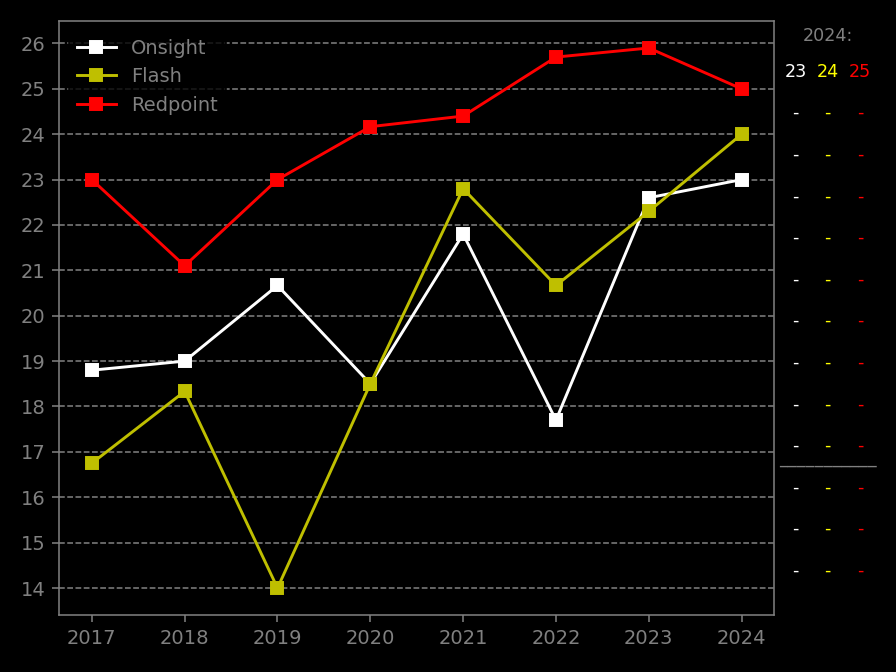
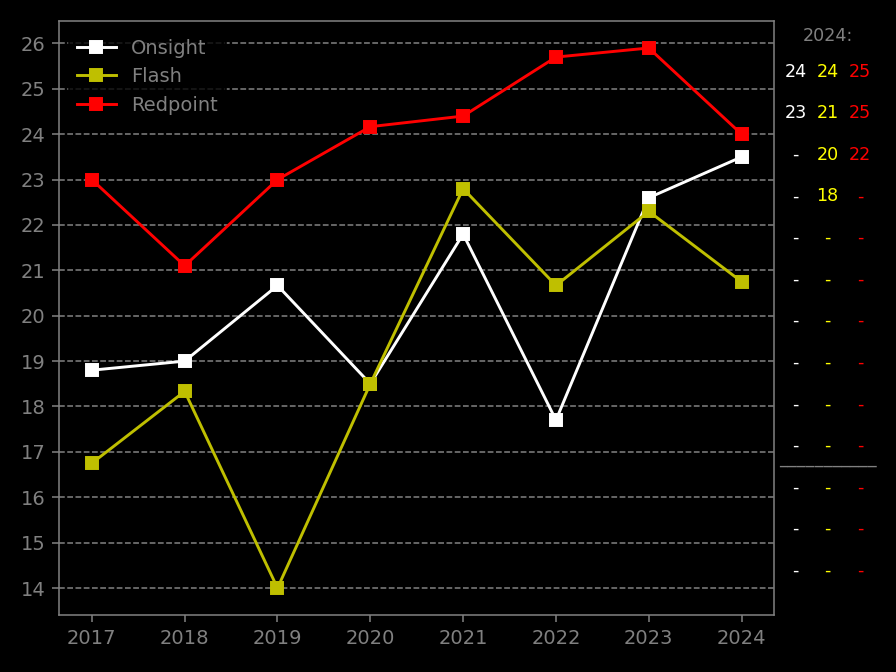
logging

diff --git a/log.html b/log.html
@@ -22,8 +22,14 @@
 <h2>Log of sends</h2>
 <table class="sortable">
 <tr><th style="width:5%">date</th><th>crag</th><th>route</th><th style="width:5%">grade</th><th>type</th><th>comment</th></tr>
-<tr><td>08.01.24</td><td>Firewood Creek</td><td>Pyromaniac</td><td>24 -</td><td style='color: yellow; font-weight: bold;'>f</td><td>No hands knee-bar helped before crux. very chossy. 2nd ascent.</td></tr>
+<tr><td>13.01.24</td><td>Pencil Dick</td><td>Drop In, Drop Out</td><td>18 -</td><td style='color: yellow; font-weight: bold;'>f</td><td></td></tr>
+<tr><td>13.01.24</td><td>Pencil Dick</td><td>My Little One</td><td>24 -</td><td style='color: white; font-weight: bold;'>o</td><td>Was very happy with this one, felt kind of easy for the grade, but fun.</td></tr>
+<tr><td>13.01.24</td><td>Pencil Dick</td><td>Botox Viagra</td><td>21 -</td><td style='color: yellow; font-weight: bold;'>f</td><td>Super nice long route.</td></tr>
+<tr><td>13.01.24</td><td>Pencil Dick</td><td>Stick It In</td><td>20 -</td><td style='color: yellow; font-weight: bold;'>f</td><td>Kind of hard little crux up near the top. God jamming training.</td></tr>
+<tr><td>13.01.24</td><td>Pencil Dick</td><td>Grazon Against Wooly Wullens</td><td>25 -</td><td style='color: red; font-weight: bold;'>r</td><td>Two goes, easy but a hard crux with bad feet.</td></tr>
+<tr><td>13.01.24</td><td>Pencil Dick</td><td>Take No Prisoners</td><td>22 -</td><td style='color: red; font-weight: bold;'>r</td><td>Two goes, thought it was very hard, then did it easily on second go.</td></tr>
 <tr><td>08.01.24</td><td>Firewood Creek</td><td>Spontaneous combustion</td><td>23 -</td><td style='color: white; font-weight: bold;'>o</td><td>really nice semi trustworthy face climbing</td></tr>
+<tr><td>08.01.24</td><td>Firewood Creek</td><td>Pyromaniac</td><td>24 -</td><td style='color: yellow; font-weight: bold;'>f</td><td>No hands knee-bar helped before crux. very chossy. 2nd ascent.</td></tr>
 <tr><td>07.01.24</td><td>White Wall</td><td>Route</td><td>25 -</td><td style='color: red; font-weight: bold;'>r</td><td>Didn't like the route at all. Had a weird hand jam. Hrad for grade also maybe?</td></tr>
 <tr><td>31.12.23</td><td>The Office</td><td>The 3-Hour Woman</td><td>26 -</td><td style='color: red; font-weight: bold;'>r</td><td>Maybe 7/8 goes over three days. Very hard on skin. Eventually went more 'direct' at the traverse.</td></tr>
 <tr><td>30.12.23</td><td>White Wall</td><td>Peking Man</td><td>27 -</td><td style='color: red; font-weight: bold;'>r</td><td>4 goes, climbed poorly through a lot of pump.</td></tr>
@@ -34,9 +40,9 @@
 <tr><td>12.12.23</td><td>Mt Iron</td><td>Mezzanine</td><td>25 -</td><td style='color: red; font-weight: bold;'>r</td><td>Worked it out quite well. Send not super desperate.</td></tr>
 <tr><td>05.12.23</td><td>Bannockburn</td><td>Just in Thyme</td><td>24 -</td><td style='color: red; font-weight: bold;'>r</td><td>Start left, use the arete (intended). Kind of easy, but scary with the rock quality.</td></tr>
 <tr><td>03.12.23</td><td>White Wall</td><td>Duck man</td><td>23 -</td><td style='color: red; font-weight: bold;'>r</td><td>2nd go. Nice climbing, hard final clip.</td></tr>
-<tr><td>01.12.23</td><td>Boat Ramp</td><td>Fancy Pants Salmon</td><td>20 -</td><td style='color: red; font-weight: bold;'>r</td><td>Was a bit worried and confused on first go. Did second.</td></tr>
 <tr><td>01.12.23</td><td>Boat Ramp</td><td>Unnamed</td><td>11 -</td><td style='color: white; font-weight: bold;'>o</td><td>Seemed like a 16 or so for the first 2m.</td></tr>
 <tr><td>01.12.23</td><td>Boat Ramp</td><td>The Rat</td><td>21 -</td><td style='color: white; font-weight: bold;'>o</td><td>Lovely climbing, had to clear away some moss at top though.</td></tr>
+<tr><td>01.12.23</td><td>Boat Ramp</td><td>Fancy Pants Salmon</td><td>20 -</td><td style='color: red; font-weight: bold;'>r</td><td>Was a bit worried and confused on first go. Did second.</td></tr>
 <tr><td>06.11.23</td><td>Wye Creek</td><td>Eat Yourself Fitter</td><td>25 -</td><td style='color: red; font-weight: bold;'>r</td><td>3 goes. You can get tired on this, but not in the fingers.</td></tr>
 <tr><td>01.11.23</td><td>Bannockburn</td><td>JAM</td><td>21 -</td><td style='color: red; font-weight: bold;'>r</td><td>Messed around the crux bit on first go, and broke a foothold.</td></tr>
 <tr><td>28.10.23</td><td>Mt Iron</td><td>Bush Lawyer</td><td>22 -</td><td style='color: yellow; font-weight: bold;'>f</td><td></td></tr>
@@ -46,26 +52,26 @@
 <tr><td>08.10.23</td><td>Mt Iron</td><td>Pitchin and Moaning</td><td>19 -</td><td style='color: white; font-weight: bold;'>o</td><td></td></tr>
 <tr><td>08.10.23</td><td>Mt Iron</td><td>Solid Energy</td><td>24 -</td><td style='color: red; font-weight: bold;'>r</td><td>Two goes. Hard last three or four moves, rather easy to that point.</td></tr>
 <tr><td>07.10.23</td><td>Sunnyside</td><td>All that remains</td><td>24 -</td><td style='color: red; font-weight: bold;'>r</td><td>Two goes today, but tried it twice a few years back.</td></tr>
-<tr><td>07.10.23</td><td>Sunnyside</td><td>Shark Chirac</td><td>22 -</td><td style='color: red; font-weight: bold;'>r</td><td>Stuffed up the first bolt. Got second go, but was quite hard (I think).</td></tr>
-<tr><td>07.10.23</td><td>Sunnyside</td><td>Sisters of Mercy</td><td>22 -</td><td style='color: yellow; font-weight: bold;'>f</td><td></td></tr>
 <tr><td>07.10.23</td><td>Sunnyside</td><td>Where's the goddamned drill</td><td>18 -</td><td style='color: white; font-weight: bold;'>o</td><td></td></tr>
+<tr><td>07.10.23</td><td>Sunnyside</td><td>Sisters of Mercy</td><td>22 -</td><td style='color: yellow; font-weight: bold;'>f</td><td></td></tr>
+<tr><td>07.10.23</td><td>Sunnyside</td><td>Shark Chirac</td><td>22 -</td><td style='color: red; font-weight: bold;'>r</td><td>Stuffed up the first bolt. Got second go, but was quite hard (I think).</td></tr>
 <tr><td>01.10.23</td><td>Long Beach</td><td>Never Enough Left variant</td><td>23 -</td><td style='color: red; font-weight: bold;'>r</td><td>Climbed the route, but used the arete.</td></tr>
-<tr><td>26.09.23</td><td>Long Beach</td><td>Pheonix Rising</td><td>18 -</td><td style='color: yellow; font-weight: bold;'>f</td><td></td></tr>
 <tr><td>26.09.23</td><td>Long Beach</td><td>Fly My Pretties</td><td>20 -</td><td style='color: white; font-weight: bold;'>o</td><td>Horribly sandy start</td></tr>
-<tr><td>26.09.23</td><td>Long Beach</td><td>Rosella</td><td>19 -</td><td style='color: white; font-weight: bold;'>o</td><td>Pretty decent route</td></tr>
+<tr><td>26.09.23</td><td>Long Beach</td><td>Pheonix Rising</td><td>18 -</td><td style='color: yellow; font-weight: bold;'>f</td><td></td></tr>
 <tr><td>26.09.23</td><td>Long Beach</td><td>Great Ape</td><td>18 -</td><td style='color: white; font-weight: bold;'>o</td><td>Better version of Seacliff</td></tr>
 <tr><td>26.09.23</td><td>Long Beach</td><td>Seacliff</td><td>17 -</td><td style='color: white; font-weight: bold;'>o</td><td></td></tr>
 <tr><td>26.09.23</td><td>Long Beach</td><td>Layer Cake</td><td>19 -</td><td style='color: white; font-weight: bold;'>o</td><td>OK route.</td></tr>
 <tr><td>26.09.23</td><td>Long Beach</td><td>Pecking Order</td><td>17 -</td><td style='color: white; font-weight: bold;'>o</td><td>Avian Wall day out with Alexandra. Scary rock quality.</td></tr>
+<tr><td>26.09.23</td><td>Long Beach</td><td>Rosella</td><td>19 -</td><td style='color: white; font-weight: bold;'>o</td><td>Pretty decent route</td></tr>
 <tr><td>25.09.23</td><td>Long Beach</td><td>Maybe</td><td>20 -</td><td style='color: red; font-weight: bold;'>r</td><td>Pinnacle. Two goes... slipped with cold hands and feet. But an interesting short route. Well worth the climb.</td></tr>
 <tr><td>16.09.23</td><td>Long Beach</td><td>Unknown to left</td><td>23 -</td><td style='color: yellow; font-weight: bold;'>f</td><td>Bolt city. Short nice route behind LoL.</td></tr>
 <tr><td>21.05.23</td><td>High Side</td><td>Daydreams & Fantasies</td><td>23 -</td><td style='color: white; font-weight: bold;'>o</td><td>Superb climbing that seemed to reward good climbing.</td></tr>
 <tr><td>21.05.23</td><td>High Side</td><td>Emoticon</td><td>23 -</td><td style='color: white; font-weight: bold;'>o</td><td>Soft, just one or two hard moves in the obviously harder spot.</td></tr>
-<tr><td>13.05.23</td><td>Long Beach</td><td>Cut in Black</td><td>20 -</td><td style='color: white; font-weight: bold;'>o</td><td>Avian wall.</td></tr>
 <tr><td>13.05.23</td><td>Long Beach</td><td>Givealittle</td><td>26 -</td><td style='color: red; font-weight: bold;'>r</td><td>Avian wall. 2 goes, soft, not that nice a route, but still some interesting moves. Knee bar near top.</td></tr>
 <tr><td>13.05.23</td><td>Long Beach</td><td>Humanure</td><td>23 -</td><td style='color: red; font-weight: bold;'>r</td><td>Avian wall. 2 goes, Kind of a hard 1 move crux for a 23.</td></tr>
 <tr><td>13.05.23</td><td>Long Beach</td><td>Aretic Vulture</td><td>21 -</td><td style='color: yellow; font-weight: bold;'>f</td><td>Avian wall. One of the nicer climbs here.</td></tr>
 <tr><td>13.05.23</td><td>Long Beach</td><td>Givin</td><td>17 -</td><td style='color: white; font-weight: bold;'>o</td><td>Avian wall. Stupidly early.</td></tr>
+<tr><td>13.05.23</td><td>Long Beach</td><td>Cut in Black</td><td>20 -</td><td style='color: white; font-weight: bold;'>o</td><td>Avian wall.</td></tr>
 <tr><td>07.05.23</td><td>Long Beach</td><td>Jeremys Route</td><td>26 -</td><td style='color: red; font-weight: bold;'>r</td><td>Bolt city. 3 goes. Got "palm up" beta at second crux which helped. This is 27 in some books, and there is a 24 variant.</td></tr>
 <tr><td>07.05.23</td><td>Long Beach</td><td>Labours of Love</td><td>24 -</td><td style='color: red; font-weight: bold;'>r</td><td>Bolt city. 4 goes over 4 years.</td></tr>
 <tr><td>07.05.23</td><td>Long Beach</td><td>Crime and Punishment</td><td>22 -</td><td style='color: yellow; font-weight: bold;'>f</td><td>Actually a red point, flashed it on a forgotten date a couple months back, just a repeat todayl</td></tr>
@@ -76,13 +82,13 @@
 <tr><td>25.04.23</td><td>Little Babylon</td><td>Multitude</td><td>21 -</td><td style='color: yellow; font-weight: bold;'>f</td><td>Was sick with my stomach thing that morning, so did this.</td></tr>
 <tr><td>21.04.23</td><td>Little Babylon</td><td>Moses</td><td>27 -</td><td style='color: red; font-weight: bold;'>r</td><td>Knee pad, felt extremely soft. I think I got 5 knee bars, including two trough the lower crux. Took 4 goes: put draws up, learned beta, slipped low down (and thus just stopped to save energy), the did it.</td></tr>
 <tr><td>20.04.23</td><td>Little Babylon</td><td>International Turkey Patrol</td><td>25 -</td><td style='color: red; font-weight: bold;'>r</td><td>Took 3/4 days, and quite a few attemps, although a lot in terrible conditions.</td></tr>
-<tr><td>16.04.23</td><td>Pencil Dick Wall</td><td>Wet Winkle</td><td>22 -</td><td style='color: white; font-weight: bold;'>o</td><td>Lovely climb.</td></tr>
-<tr><td>15.04.23</td><td>Falcon Steep Wall</td><td>The 2.4 Minute Man</td><td>26 -</td><td style='color: red; font-weight: bold;'>r</td><td>5 goes over two different days. Was super easy in the end c. 24 if I climb well.</td></tr>
+<tr><td>16.04.23</td><td>Pencil Dick</td><td>Wet Winkle</td><td>22 -</td><td style='color: white; font-weight: bold;'>o</td><td>Lovely climb.</td></tr>
+<tr><td>15.04.23</td><td>Falcon Steep</td><td>The 2.4 Minute Man</td><td>26 -</td><td style='color: red; font-weight: bold;'>r</td><td>5 goes over two different days. Was super easy in the end c. 24 if I climb well.</td></tr>
 <tr><td>10.04.23</td><td>Little Babylon</td><td>Bish Bosh Bash</td><td>23 -</td><td style='color: red; font-weight: bold;'>r</td><td></td></tr>
 <tr><td>09.04.23</td><td>Little Babylon</td><td>Rua Tahi</td><td>23 -</td><td style='color: red; font-weight: bold;'>r</td><td></td></tr>
 <tr><td>07.04.23</td><td>Firewood Creek</td><td>Dancing on Hot Coals</td><td>23 -</td><td style='color: white; font-weight: bold;'>o</td><td>Climbed quite well, might be soft for my height.</td></tr>
-<tr><td>04.04.23</td><td>Firewood Creek</td><td>Anthropocene</td><td>24 -</td><td style='color: red; font-weight: bold;'>r</td><td>Seemed quite hard, but with good beta was quite easy.</td></tr>
 <tr><td>04.04.23</td><td>Firewood Creek</td><td>Pyrocene</td><td>23 -</td><td style='color: red; font-weight: bold;'>r</td><td></td></tr>
+<tr><td>04.04.23</td><td>Firewood Creek</td><td>Anthropocene</td><td>24 -</td><td style='color: red; font-weight: bold;'>r</td><td>Seemed quite hard, but with good beta was quite easy.</td></tr>
 <tr><td>26.03.23</td><td>Whale Watching</td><td>No Thanks I'd Rather Walk</td><td>20 -</td><td style='color: yellow; font-weight: bold;'>f</td><td></td></tr>
 <tr><td>26.03.23</td><td>Whale Watching</td><td>Hobo Humping Slobo Babe</td><td>23 -</td><td style='color: red; font-weight: bold;'>r</td><td>Second go. Just one hard move that I failed on the first go.</td></tr>
 <tr><td>26.03.23</td><td>Whale Watching</td><td>Moby Dick</td><td>25 -</td><td style='color: red; font-weight: bold;'>r</td><td>Second go. Quite a nice climb.</td></tr>
@@ -112,18 +118,18 @@
 <tr><td>19.01.23</td><td>Al Cap</td><td>Huffer</td><td>25 -</td><td style='color: red; font-weight: bold;'>r</td><td></td></tr>
 <tr><td>18.01.23</td><td>Al Cap</td><td>R.T.D.</td><td>23 -</td><td style='color: yellow; font-weight: bold;'>f</td><td></td></tr>
 <tr><td>15.01.23</td><td>The Office</td><td>Flake News</td><td>22 -</td><td style='color: white; font-weight: bold;'>o</td><td>Approx date.</td></tr>
-<tr><td>15.01.23</td><td>Falcon Steep Wall</td><td>Falcon Steep</td><td>22 -</td><td style='color: white; font-weight: bold;'>o</td><td>Approx date. Was a great climb, kind of sequency at the start, lovely second half.</td></tr>
-<tr><td>15.01.23</td><td>Falcon Steep Wall</td><td>Cougar Corner</td><td>17 -</td><td style='color: white; font-weight: bold;'>o</td><td>Approx date.</td></tr>
-<tr><td>13.01.23</td><td>Farside</td><td>Chairman Ed</td><td>17 -</td><td style='color: white; font-weight: bold;'>o</td><td></td></tr>
+<tr><td>15.01.23</td><td>Falcon Steep</td><td>Falcon Steep</td><td>22 -</td><td style='color: white; font-weight: bold;'>o</td><td>Approx date. Was a great climb, kind of sequency at the start, lovely second half.</td></tr>
+<tr><td>15.01.23</td><td>Falcon Steep</td><td>Cougar Corner</td><td>17 -</td><td style='color: white; font-weight: bold;'>o</td><td>Approx date.</td></tr>
 <tr><td>13.01.23</td><td>Farside</td><td>Bogans</td><td>17 -</td><td style='color: yellow; font-weight: bold;'>f</td><td></td></tr>
 <tr><td>13.01.23</td><td>Farside</td><td>Unknown 23 beside bogans</td><td>23 -</td><td style='color: red; font-weight: bold;'>r</td><td></td></tr>
 <tr><td>13.01.23</td><td>Farside</td><td>Jock the Frotterer</td><td>19 -</td><td style='color: white; font-weight: bold;'>o</td><td></td></tr>
 <tr><td>13.01.23</td><td>Farside</td><td>In Flagrante Delecto</td><td>19 -</td><td style='color: white; font-weight: bold;'>o</td><td></td></tr>
+<tr><td>13.01.23</td><td>Farside</td><td>Chairman Ed</td><td>17 -</td><td style='color: white; font-weight: bold;'>o</td><td></td></tr>
 <tr><td>12.01.23</td><td>Mt Iron</td><td>Waking up the Missus</td><td>20 -</td><td style='color: white; font-weight: bold;'>o</td><td></td></tr>
 <tr><td>09.01.23</td><td>Riverside</td><td>Jack Be Nimble</td><td>23 -</td><td style='color: white; font-weight: bold;'>o</td><td>Very soft</td></tr>
+<tr><td>07.01.23</td><td>Mt Iron</td><td>Out there on the edge</td><td>20 -</td><td style='color: yellow; font-weight: bold;'>f</td><td></td></tr>
 <tr><td>07.01.23</td><td>Mt Iron</td><td>Irony</td><td>25 -</td><td style='color: red; font-weight: bold;'>r</td><td>Bouldery, third go.</td></tr>
 <tr><td>07.01.23</td><td>Mt Iron</td><td>Iron Maiden</td><td>22 -</td><td style='color: yellow; font-weight: bold;'>f</td><td></td></tr>
-<tr><td>07.01.23</td><td>Mt Iron</td><td>Out there on the edge</td><td>20 -</td><td style='color: yellow; font-weight: bold;'>f</td><td></td></tr>
 <tr><td>30.09.22</td><td>Storvika</td><td>Gompi</td><td>22 (6c)</td><td style='color: red; font-weight: bold;'>r</td><td>Flashed it almost a year ago with broken toe, but didn't log</td></tr>
 <tr><td>30.09.22</td><td>Storvika</td><td>Closed project</td><td>20 (6b)</td><td style='color: red; font-weight: bold;'>r</td><td>Flashed it almost a year ago with broken toe.</td></tr>
 <tr><td>30.09.22</td><td>Storvika</td><td>Høyrevridd propaganda</td><td>16 (5+)</td><td style='color: white; font-weight: bold;'>o</td><td>Really poor rock quality.</td></tr>
@@ -132,12 +138,12 @@
 <tr><td>10.09.22</td><td>Flatanger</td><td>Hans</td><td>25 (7b)</td><td style='color: red; font-weight: bold;'>r</td><td>Soft. Two goes, very top is technical/trust your feet. Pretty easy when you know whats up. Topped out.</td></tr>
 <tr><td>23.08.22</td><td>Hell</td><td>Butthole surfer</td><td>21 (6b+)</td><td style='color: red; font-weight: bold;'>r</td><td>Quite cruxy, and not really a noteworthy climb.</td></tr>
 <tr><td>21.08.22</td><td>Hell</td><td>Raakkenraall</td><td>25 (7b)</td><td style='color: red; font-weight: bold;'>r</td><td>One quite hard move.</td></tr>
+<tr><td>05.08.22</td><td>Hell</td><td>En liten svingom</td><td>18 (6a)</td><td style='color: white; font-weight: bold;'>o</td><td></td></tr>
+<tr><td>05.08.22</td><td>Hell</td><td>Lykkebuen</td><td>20 (6b)</td><td style='color: white; font-weight: bold;'>o</td><td></td></tr>
 <tr><td>05.08.22</td><td>Hell</td><td>Skjaeringspunktet</td><td>21 (6b+)</td><td style='color: white; font-weight: bold;'>o</td><td></td></tr>
 <tr><td>05.08.22</td><td>Hell</td><td>Runddansen</td><td>18 (6a)</td><td style='color: white; font-weight: bold;'>o</td><td></td></tr>
-<tr><td>05.08.22</td><td>Hell</td><td>Lettere opp enn ned</td><td>12 (4+)</td><td style='color: white; font-weight: bold;'>o</td><td></td></tr>
-<tr><td>05.08.22</td><td>Hell</td><td>Lykkebuen</td><td>20 (6b)</td><td style='color: white; font-weight: bold;'>o</td><td></td></tr>
-<tr><td>05.08.22</td><td>Hell</td><td>En liten svingom</td><td>18 (6a)</td><td style='color: white; font-weight: bold;'>o</td><td></td></tr>
 <tr><td>05.08.22</td><td>Hell</td><td>Joggesko</td><td>11 (4)</td><td style='color: white; font-weight: bold;'>o</td><td></td></tr>
+<tr><td>05.08.22</td><td>Hell</td><td>Lettere opp enn ned</td><td>12 (4+)</td><td style='color: white; font-weight: bold;'>o</td><td></td></tr>
 <tr><td>24.07.22</td><td>Beachen</td><td>Brillefin</td><td>25 (7b)</td><td style='color: red; font-weight: bold;'>r</td><td>Soft. Basically just a crux. Maybe it feels more like the grade if its at your max?</td></tr>
 <tr><td>23.07.22</td><td>Beachen</td><td>Aloha</td><td>26 (7b+)</td><td style='color: red; font-weight: bold;'>r</td><td>Great line. 3 goes. On the easier side probably. Super nice climb with a little crux at the top.</td></tr>
 <tr><td>22.07.22</td><td>Beachen</td><td>Herlige Tider</td><td>23 (7a)</td><td style='color: yellow; font-weight: bold;'>f</td><td></td></tr>
@@ -149,14 +155,14 @@
 <tr><td>09.06.22</td><td>Hell</td><td>Klassikeren</td><td>25 (7b)</td><td style='color: red; font-weight: bold;'>r</td><td>Tried this on occasion over multiple years but got injured on it so never took it too serious. Went pretty easy in the end.</td></tr>
 <tr><td>06.06.22</td><td>Ishoel</td><td>Naadelos som Cola</td><td>20 (6b)</td><td style='color: yellow; font-weight: bold;'>f</td><td></td></tr>
 <tr><td>06.06.22</td><td>Ishoel</td><td>Action direct</td><td>16 (5+)</td><td style='color: red; font-weight: bold;'>r</td><td></td></tr>
+<tr><td>05.06.22</td><td>Ishoel</td><td>Lumbago</td><td>25 (7b)</td><td style='color: red; font-weight: bold;'>r</td><td>~6 attempts over two days. Just a boulder problem.</td></tr>
 <tr><td>05.06.22</td><td>Ishoel</td><td>Malaria</td><td>21 (6b+)</td><td style='color: red; font-weight: bold;'>r</td><td>Had onsighted it the year before.</td></tr>
 <tr><td>05.06.22</td><td>Ishoel</td><td>Lommerusk</td><td>20 (6b)</td><td style='color: yellow; font-weight: bold;'>f</td><td>Was told I used holds not on the route.</td></tr>
-<tr><td>05.06.22</td><td>Ishoel</td><td>Lumbago</td><td>25 (7b)</td><td style='color: red; font-weight: bold;'>r</td><td>~6 attempts over two days. Just a boulder problem.</td></tr>
 <tr><td>04.06.22</td><td>Ishoel</td><td>Furubjorn</td><td>22 (6c)</td><td style='color: red; font-weight: bold;'>r</td><td>Had done it the year before</td></tr>
-<tr><td>19.03.22</td><td>Kongeveggen</td><td>Prinsesse Madeleine</td><td>19 (6a+)</td><td style='color: red; font-weight: bold;'>r</td><td></td></tr>
-<tr><td>19.03.22</td><td>Kongeveggen</td><td>Magnus Berrfott</td><td>18 (6a)</td><td style='color: yellow; font-weight: bold;'>f</td><td></td></tr>
-<tr><td>19.03.22</td><td>Kongeveggen</td><td>Kong Olavs men</td><td>21 (6b+)</td><td style='color: yellow; font-weight: bold;'>f</td><td></td></tr>
 <tr><td>19.03.22</td><td>Kongeveggen</td><td>Cleopatra av Egypt</td><td>22 (6c+)</td><td style='color: yellow; font-weight: bold;'>f</td><td></td></tr>
+<tr><td>19.03.22</td><td>Kongeveggen</td><td>Magnus Berrfott</td><td>18 (6a)</td><td style='color: yellow; font-weight: bold;'>f</td><td></td></tr>
+<tr><td>19.03.22</td><td>Kongeveggen</td><td>Prinsesse Madeleine</td><td>19 (6a+)</td><td style='color: red; font-weight: bold;'>r</td><td></td></tr>
+<tr><td>19.03.22</td><td>Kongeveggen</td><td>Kong Olavs men</td><td>21 (6b+)</td><td style='color: yellow; font-weight: bold;'>f</td><td></td></tr>
 <tr><td>14.03.22</td><td>Harbak</td><td>Krokkofant</td><td>0 (B6A+)</td><td style='color: red; font-weight: bold;'>r</td><td></td></tr>
 <tr><td>14.03.22</td><td>Harbak</td><td>Elledille</td><td>0 (B6B+)</td><td style='color: red; font-weight: bold;'>r</td><td></td></tr>
 <tr><td>14.03.22</td><td>Harbak</td><td>Hvalen</td><td>0 (B5)</td><td style='color: red; font-weight: bold;'>r</td><td></td></tr>
@@ -165,23 +171,23 @@
 <tr><td>20.11.21</td><td>Olympic Wall</td><td>Tornado lou</td><td>25 (7b)</td><td style='color: red; font-weight: bold;'>r</td><td>Fucked up the sequence at the top, and too thin to climb back, so just to push through. Got it second go.</td></tr>
 <tr><td>20.11.21</td><td>Olympic Wall</td><td>Kalyty</td><td>25 (7b)</td><td style='color: white; font-weight: bold;'>o</td><td>c. 7a. veyr soft</td></tr>
 <tr><td>20.11.21</td><td>Olympic Wall</td><td>Biloute</td><td>23 (7a)</td><td style='color: white; font-weight: bold;'>o</td><td></td></tr>
+<tr><td>19.11.21</td><td>Masouri Skyline</td><td>Aphrodite</td><td>24 (7a+)</td><td style='color: yellow; font-weight: bold;'>f</td><td></td></tr>
 <tr><td>19.11.21</td><td>Masouri Skyline</td><td>Ivi</td><td>24 (7a+)</td><td style='color: white; font-weight: bold;'>o</td><td>I climbed well, but it wasn't as hard as the grade</td></tr>
 <tr><td>19.11.21</td><td>Masouri Skyline</td><td>Monahiki elia</td><td>19 (6a+)</td><td style='color: yellow; font-weight: bold;'>f</td><td></td></tr>
-<tr><td>19.11.21</td><td>Masouri Skyline</td><td>Aphrodite</td><td>24 (7a+)</td><td style='color: yellow; font-weight: bold;'>f</td><td></td></tr>
 <tr><td>17.11.21</td><td>Masouri Skyline</td><td>Kerveros</td><td>23 (7a)</td><td style='color: white; font-weight: bold;'>o</td><td></td></tr>
-<tr><td>16.11.21</td><td>Arginonta Valley</td><td>Arion</td><td>22 (6c+)</td><td style='color: red; font-weight: bold;'>r</td><td></td></tr>
 <tr><td>16.11.21</td><td>Arginonta Valley</td><td>Unicorn</td><td>24 (7a+)</td><td style='color: red; font-weight: bold;'>r</td><td>Hard finish</td></tr>
 <tr><td>16.11.21</td><td>Arginonta Valley</td><td>Diagoras</td><td>23 (7a)</td><td style='color: yellow; font-weight: bold;'>f</td><td></td></tr>
+<tr><td>16.11.21</td><td>Arginonta Valley</td><td>Arion</td><td>22 (6c+)</td><td style='color: red; font-weight: bold;'>r</td><td></td></tr>
 <tr><td>16.11.21</td><td>Arginonta Valley</td><td>Rhythm of the rain</td><td>19 (6a+)</td><td style='color: white; font-weight: bold;'>o</td><td></td></tr>
 <tr><td>15.11.21</td><td>Masouri Skyline</td><td>DNA</td><td>23 (7a)</td><td style='color: red; font-weight: bold;'>r</td><td>Was pretty sick (literally), but its very easy if you know some rests.</td></tr>
 <tr><td>11.11.21</td><td>Odyssey</td><td>Dionysos</td><td>23 (7a)</td><td style='color: red; font-weight: bold;'>r</td><td>Super easy (c. 6b+) to get to the anchor, only hard move was clipping that.</td></tr>
 <tr><td>10.11.21</td><td>Masouri Skyline</td><td>Panselinos</td><td>20 (6b)</td><td style='color: white; font-weight: bold;'>o</td><td></td></tr>
 <tr><td>09.11.21</td><td>Odyssey</td><td>Calipso</td><td>23 (7a)</td><td style='color: white; font-weight: bold;'>o</td><td>Soft. Not as polished as some other routes. Lovely final section.</td></tr>
 <tr><td>09.11.21</td><td>Odyssey</td><td>Atena</td><td>21 (6b+)</td><td style='color: yellow; font-weight: bold;'>f</td><td>Nice for the grade, but quite polished</td></tr>
+<tr><td>27.07.21</td><td>Vingsand</td><td>Nils arne eggen</td><td>0 (B6A)</td><td style='color: red; font-weight: bold;'>r</td><td></td></tr>
 <tr><td>27.07.21</td><td>Vingsand</td><td>Jade</td><td>0 (B5+)</td><td style='color: red; font-weight: bold;'>r</td><td></td></tr>
 <tr><td>27.07.21</td><td>Vingsand</td><td>Jade sit</td><td>0 (B6B)</td><td style='color: red; font-weight: bold;'>r</td><td></td></tr>
 <tr><td>27.07.21</td><td>Vingsand</td><td>Bursdagsgaven</td><td>0 (B6A)</td><td style='color: yellow; font-weight: bold;'>f</td><td></td></tr>
-<tr><td>27.07.21</td><td>Vingsand</td><td>Nils arne eggen</td><td>0 (B6A)</td><td style='color: red; font-weight: bold;'>r</td><td></td></tr>
 <tr><td>25.07.21</td><td>Flatanger</td><td>Espen askeladd soker lykken</td><td>24 (7a+)</td><td style='color: red; font-weight: bold;'>r</td><td>OK long line, but mostly just a crux.</td></tr>
 <tr><td>24.07.21</td><td>Ishoel</td><td>Blodapplesinhud</td><td>23 (7a)</td><td style='color: red; font-weight: bold;'>r</td><td>Approx. date</td></tr>
 <tr><td>03.07.21</td><td>Hanko</td><td>Yo-yo</td><td>21 (6b+)</td><td style='color: white; font-weight: bold;'>o</td><td>6b in Climb Norway</td></tr>
@@ -196,48 +202,48 @@
 <tr><td>25.07.20</td><td>Kvam</td><td>Thor line</td><td>24 (7a+)</td><td style='color: red; font-weight: bold;'>r</td><td>Norwegian 8-, didn in 4 goes on first send attempt.</td></tr>
 <tr><td>19.07.20</td><td>Flatanger</td><td>Kakestykket</td><td>23 (7a)</td><td style='color: red; font-weight: bold;'>r</td><td></td></tr>
 <tr><td>16.07.20</td><td>Flatanger</td><td>Gulrot tyven</td><td>21 (6b+)</td><td style='color: white; font-weight: bold;'>o</td><td>Long with various 'sections'. Got pumped, nearly to defeat.</td></tr>
-<tr><td>14.06.20</td><td>Ishoel</td><td>Bleieskiftarbeider</td><td>16 (5+)</td><td style='color: white; font-weight: bold;'>o</td><td></td></tr>
 <tr><td>14.06.20</td><td>Ishoel</td><td>Trollfeit</td><td>18 (6a)</td><td style='color: yellow; font-weight: bold;'>f</td><td></td></tr>
+<tr><td>14.06.20</td><td>Ishoel</td><td>Bleieskiftarbeider</td><td>16 (5+)</td><td style='color: white; font-weight: bold;'>o</td><td></td></tr>
 <tr><td>10.06.20</td><td>Hell</td><td>Bavarian meets Norway</td><td>25 (7b)</td><td style='color: red; font-weight: bold;'>r</td><td>Easy? Did in 4 attempts after starting with bad beta.</td></tr>
 <tr><td>01.05.20</td><td>Korsvika</td><td>Laban</td><td>19 (6a+)</td><td style='color: yellow; font-weight: bold;'>f</td><td></td></tr>
 <tr><td>01.04.20</td><td>Hell</td><td>The undertaker</td><td>22 (6c)</td><td style='color: red; font-weight: bold;'>r</td><td></td></tr>
 <tr><td>02.07.19</td><td>Flatanger</td><td>Hovdegjengen</td><td>22 (6c+)</td><td style='color: red; font-weight: bold;'>r</td><td>Horrific crux. Only try if you're feeling idiotic.</td></tr>
 <tr><td>01.07.19</td><td>Ekne</td><td>Arico</td><td>22 (6c)</td><td style='color: white; font-weight: bold;'>o</td><td>Used the arete.</td></tr>
-<tr><td>06.04.19</td><td>Flatanger</td><td>Alfa krull</td><td>20 (6b)</td><td style='color: white; font-weight: bold;'>o</td><td>soft</td></tr>
-<tr><td>06.04.19</td><td>Flatanger</td><td>Tungt mobelert</td><td>24 (7a+)</td><td style='color: red; font-weight: bold;'>r</td><td></td></tr>
-<tr><td>06.04.19</td><td>Flatanger</td><td>Trykkokeren</td><td>20 (6b)</td><td style='color: white; font-weight: bold;'>o</td><td></td></tr>
 <tr><td>06.04.19</td><td>Flatanger</td><td>Limpa</td><td>14 (5)</td><td style='color: yellow; font-weight: bold;'>f</td><td></td></tr>
+<tr><td>06.04.19</td><td>Flatanger</td><td>Alfa krull</td><td>20 (6b)</td><td style='color: white; font-weight: bold;'>o</td><td>soft</td></tr>
+<tr><td>06.04.19</td><td>Flatanger</td><td>Trykkokeren</td><td>20 (6b)</td><td style='color: white; font-weight: bold;'>o</td><td></td></tr>
+<tr><td>06.04.19</td><td>Flatanger</td><td>Tungt mobelert</td><td>24 (7a+)</td><td style='color: red; font-weight: bold;'>r</td><td></td></tr>
 <tr><td>06.10.18</td><td>Flatanger</td><td>Rosens innerste sjel</td><td>21 (6b+)</td><td style='color: yellow; font-weight: bold;'>f</td><td></td></tr>
 <tr><td>20.08.18</td><td>Britten crag</td><td>U haul</td><td>21 -</td><td style='color: red; font-weight: bold;'>r</td><td></td></tr>
 <tr><td>20.08.18</td><td>Britten crag</td><td>Disco logic</td><td>23 -</td><td style='color: red; font-weight: bold;'>r</td><td>Soft</td></tr>
 <tr><td>19.08.18</td><td>Britten crag</td><td>Wave of mutilation</td><td>22 -</td><td style='color: red; font-weight: bold;'>r</td><td></td></tr>
 <tr><td>02.07.18</td><td>Hell</td><td>Studie i gront</td><td>22 (6c)</td><td style='color: red; font-weight: bold;'>r</td><td>Found very hard, maybe 6 attempts</td></tr>
 <tr><td>02.07.18</td><td>Hell</td><td>Go to hell</td><td>23 (7a)</td><td style='color: red; font-weight: bold;'>r</td><td></td></tr>
-<tr><td>01.07.18</td><td>Ekne</td><td>Syver</td><td>21 (6b+)</td><td style='color: red; font-weight: bold;'>r</td><td>Beautiful line</td></tr>
 <tr><td>01.07.18</td><td>Ekne</td><td>Hunden fra baskerville</td><td>19 (6a+)</td><td style='color: white; font-weight: bold;'>o</td><td>Excellent maybe Norwegian 7 extension</td></tr>
+<tr><td>01.07.18</td><td>Ekne</td><td>Syver</td><td>21 (6b+)</td><td style='color: red; font-weight: bold;'>r</td><td>Beautiful line</td></tr>
 <tr><td>20.05.18</td><td>Beachen</td><td>Christiania</td><td>18 (6a)</td><td style='color: yellow; font-weight: bold;'>f</td><td>Soft</td></tr>
-<tr><td>19.05.18</td><td>Beachen</td><td>Marihona</td><td>12 (4+)</td><td style='color: yellow; font-weight: bold;'>f</td><td></td></tr>
-<tr><td>19.05.18</td><td>Beachen</td><td>No og daa</td><td>20 (6b)</td><td style='color: yellow; font-weight: bold;'>f</td><td></td></tr>
-<tr><td>19.05.18</td><td>Beachen</td><td>Siste skudd fra stammen</td><td>19 (6a+)</td><td style='color: yellow; font-weight: bold;'>f</td><td></td></tr>
 <tr><td>19.05.18</td><td>Beachen</td><td>Aphelium</td><td>20 (6b)</td><td style='color: yellow; font-weight: bold;'>f</td><td>Top is worth the stupid crux at the start</td></tr>
+<tr><td>19.05.18</td><td>Beachen</td><td>Siste skudd fra stammen</td><td>19 (6a+)</td><td style='color: yellow; font-weight: bold;'>f</td><td></td></tr>
+<tr><td>19.05.18</td><td>Beachen</td><td>No og daa</td><td>20 (6b)</td><td style='color: yellow; font-weight: bold;'>f</td><td></td></tr>
+<tr><td>19.05.18</td><td>Beachen</td><td>Marihona</td><td>12 (4+)</td><td style='color: yellow; font-weight: bold;'>f</td><td></td></tr>
 <tr><td>19.05.18</td><td>Beachen</td><td>Whiskeykongen</td><td>20 (6b)</td><td style='color: yellow; font-weight: bold;'>f</td><td></td></tr>
 <tr><td>18.05.18</td><td>Beachen</td><td>Ny tid</td><td>25 (7b)</td><td style='color: red; font-weight: bold;'>r</td><td>Soft</td></tr>
 <tr><td>18.05.18</td><td>Beachen</td><td>Notteliten</td><td>16 (5+)</td><td style='color: yellow; font-weight: bold;'>f</td><td></td></tr>
-<tr><td>18.05.18</td><td>Beachen</td><td>Jericovare</td><td>19 (6a+)</td><td style='color: yellow; font-weight: bold;'>f</td><td></td></tr>
 <tr><td>18.05.18</td><td>Beachen</td><td>Tiriltoppen</td><td>14 (5)</td><td style='color: red; font-weight: bold;'>r</td><td></td></tr>
+<tr><td>18.05.18</td><td>Beachen</td><td>Jericovare</td><td>19 (6a+)</td><td style='color: yellow; font-weight: bold;'>f</td><td></td></tr>
 <tr><td>17.05.18</td><td>Beachen</td><td>Drum</td><td>18 (6a)</td><td style='color: red; font-weight: bold;'>r</td><td></td></tr>
 <tr><td>19.04.18</td><td>Korsvika</td><td>Bangkok</td><td>22 (6c+)</td><td style='color: red; font-weight: bold;'>r</td><td></td></tr>
 <tr><td>01.10.17</td><td>Flatanger</td><td>Ingwe</td><td>23 (7a)</td><td style='color: red; font-weight: bold;'>r</td><td>Hard, but not as hard as the 7a+ would suggest. A touch scary and thin at the top. NOTE: it was downgraded after this comment.</td></tr>
 <tr><td>30.09.17</td><td>Flatanger</td><td>Holy Friction</td><td>22 (6c)</td><td style='color: white; font-weight: bold;'>o</td><td>Nice top out</td></tr>
 <tr><td>03.09.17</td><td>Korsvika</td><td>Via Vibeke</td><td>21 (6b+)</td><td style='color: red; font-weight: bold;'>r</td><td></td></tr>
 <tr><td>02.09.17</td><td>Hell</td><td>Gammel Erik</td><td>22 (6c)</td><td style='color: yellow; font-weight: bold;'>f</td><td></td></tr>
-<tr><td>01.09.17</td><td>Ekne</td><td>Gunnars klienter</td><td>16 (5+)</td><td style='color: yellow; font-weight: bold;'>f</td><td></td></tr>
-<tr><td>01.09.17</td><td>Ekne</td><td>Den barnlose</td><td>21 (6b+)</td><td style='color: white; font-weight: bold;'>o</td><td></td></tr>
 <tr><td>01.09.17</td><td>Ekne</td><td>EB skoa til Terje</td><td>14 (5)</td><td style='color: white; font-weight: bold;'>o</td><td></td></tr>
+<tr><td>01.09.17</td><td>Ekne</td><td>Gunnars klienter</td><td>16 (5+)</td><td style='color: yellow; font-weight: bold;'>f</td><td></td></tr>
+<tr><td>01.09.17</td><td>Ekne</td><td>Startgass</td><td>11 (4)</td><td style='color: yellow; font-weight: bold;'>f</td><td></td></tr>
+<tr><td>01.09.17</td><td>Ekne</td><td>Den barnlose</td><td>21 (6b+)</td><td style='color: white; font-weight: bold;'>o</td><td></td></tr>
+<tr><td>01.09.17</td><td>Ekne</td><td>Statsskog</td><td>19 (6a+)</td><td style='color: white; font-weight: bold;'>o</td><td>Found it really really hard.</td></tr>
 <tr><td>01.09.17</td><td>Ekne</td><td>Svaet</td><td>18 (6a)</td><td style='color: white; font-weight: bold;'>o</td><td>Nice clean face climbing</td></tr>
 <tr><td>01.09.17</td><td>Ekne</td><td>Spisskammerset</td><td>18 (6a)</td><td style='color: yellow; font-weight: bold;'>f</td><td></td></tr>
-<tr><td>01.09.17</td><td>Ekne</td><td>Statsskog</td><td>19 (6a+)</td><td style='color: white; font-weight: bold;'>o</td><td>Found it really really hard.</td></tr>
-<tr><td>01.09.17</td><td>Ekne</td><td>Startgass</td><td>11 (4)</td><td style='color: yellow; font-weight: bold;'>f</td><td></td></tr>
 <tr><td>10.06.17</td><td>Britten crag</td><td>Mt Pleasant Butcher</td><td>25 -</td><td style='color: red; font-weight: bold;'>r</td><td>Writing much later: First 7b, took I think 5/6 days, a lot of attempts. Some lovely moves, balance, stength and a techinical-ish top.</td></tr>
 <tr><td>15.04.17</td><td>Tombstone</td><td>Lunge starter</td><td>23 -</td><td style='color: red; font-weight: bold;'>r</td><td>Short physical problem. Mimi got a cracking photo</td></tr>
 <tr><td>14.04.17</td><td>Riverside</td><td>Honey I Blew Up The Atoll</td><td>22 -</td><td style='color: red; font-weight: bold;'>r</td><td>Flashed the 21 option. To the top required a good head.</td></tr>
@@ -250,13 +256,14 @@
 <tr><td>12.11.16</td><td>Mt Iron</td><td>I may be old but at least I'm crusty</td><td>22 -</td><td style='color: red; font-weight: bold;'>r</td><td>Lovely moves</td></tr>
 <tr><td>16.09.16</td><td>Castle Hill</td><td>Lung Dyno</td><td>0 (V4)</td><td style='color: red; font-weight: bold;'>r</td><td></td></tr>
 <tr><td>01.10.15</td><td>Korsvika</td><td>Avlopet</td><td>14 (5)</td><td style='color: white; font-weight: bold;'>o</td><td>Free soloed, its a short trad line</td></tr>
-<tr><td>02.09.15</td><td>Korsvika</td><td>Slyngelen</td><td>18 (6a)</td><td style='color: red; font-weight: bold;'>r</td><td></td></tr>
 <tr><td>02.09.15</td><td>Korsvika</td><td>Den brune flecken</td><td>14 (5)</td><td style='color: white; font-weight: bold;'>o</td><td></td></tr>
-<tr><td>01.09.15</td><td>Hell</td><td>Paa rygg</td><td>19 (6a+)</td><td style='color: yellow; font-weight: bold;'>f</td><td></td></tr>
-<tr><td>01.09.15</td><td>Hell</td><td>Hell aldersheim</td><td>21 (6b+)</td><td style='color: red; font-weight: bold;'>r</td><td>Great gym climbing</td></tr>
+<tr><td>02.09.15</td><td>Korsvika</td><td>Slyngelen</td><td>18 (6a)</td><td style='color: red; font-weight: bold;'>r</td><td></td></tr>
+<tr><td>01.09.15</td><td>Hell</td><td>Ingenmannsland</td><td>21 (6b+)</td><td style='color: red; font-weight: bold;'>r</td><td></td></tr>
 <tr><td>01.09.15</td><td>Hell</td><td>Lysere tider</td><td>21 (6b+)</td><td style='color: red; font-weight: bold;'>r</td><td></td></tr>
 <tr><td>01.09.15</td><td>Hell</td><td>Natoplank</td><td>14 (5)</td><td style='color: yellow; font-weight: bold;'>f</td><td></td></tr>
-<tr><td>01.09.15</td><td>Hell</td><td>Ingenmannsland</td><td>21 (6b+)</td><td style='color: red; font-weight: bold;'>r</td><td></td></tr>
+<tr><td>01.09.15</td><td>Hell</td><td>Paa rygg</td><td>19 (6a+)</td><td style='color: yellow; font-weight: bold;'>f</td><td></td></tr>
+<tr><td>01.09.15</td><td>Hell</td><td>Hell aldersheim</td><td>21 (6b+)</td><td style='color: red; font-weight: bold;'>r</td><td>Great gym climbing</td></tr>
+<tr><td>17.01.04</td><td>Pencil Dick</td><td>Reach for the Purple Love Truncheon</td><td>26 -</td><td style='color: red; font-weight: bold;'>r</td><td>Two goes, felt super easy</td></tr>
 </table>
 
 <h2>Grade table</h2>
